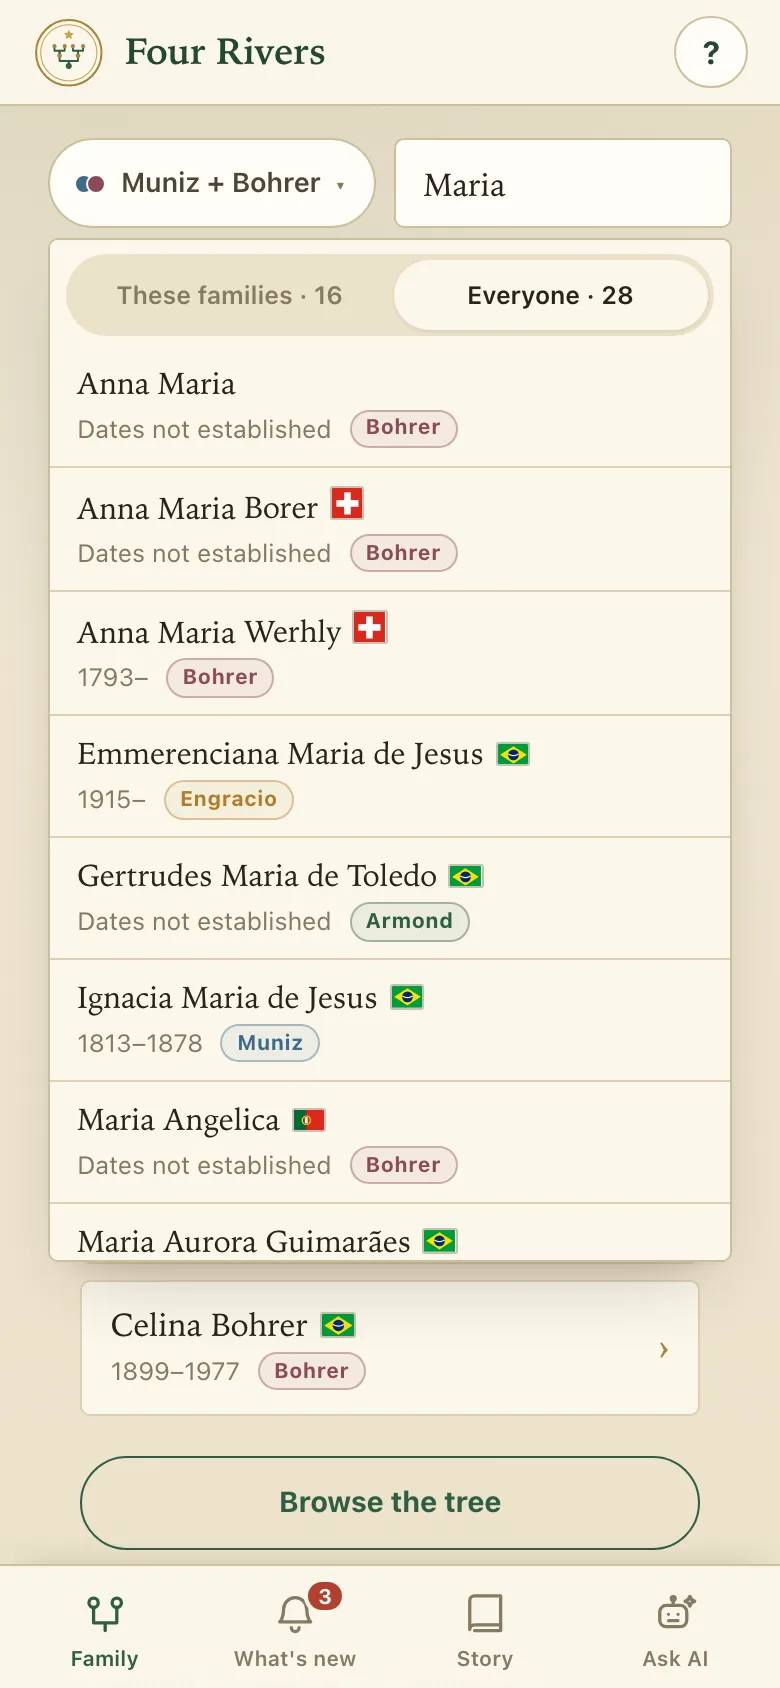
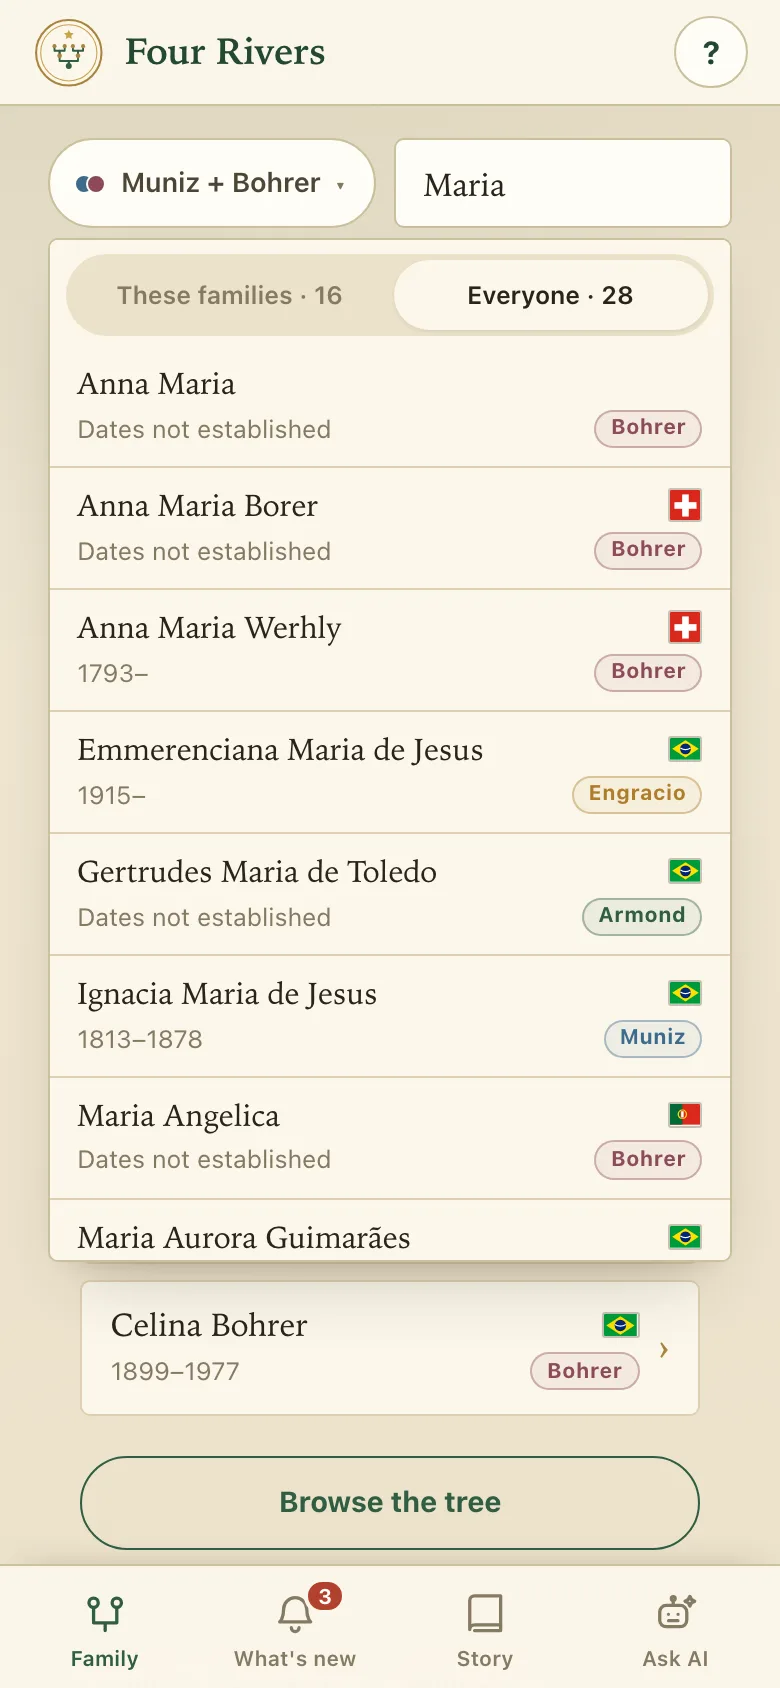
Align flags and family tags on the right of person rows
Person rows keep the name across the full width and line up the flag (name
line) and the family tag (years line) on the right, as two columns down a
list; each line has its own space so long names still fit. The UI standard,
the concept mockup and the screen gallery follow.

diff --git a/design/mockups/branch-picker.html b/design/mockups/branch-picker.html
@@ -203,6 +203,11 @@
   .dp .tier-contextual { background: #ece7f3; color: #5d4f7a; }
   .dp ul.facts { padding-left: 1.05rem; }
   .dp ul.facts li + li { margin-top: .5rem; }
+
+  /* As shipped: the flag and the family tag line up on the right of their rows. */
+  .pname { display: flex; align-items: center; justify-content: space-between; gap: 8px; }
+  .pyears-line { justify-content: space-between; }
+  .pyears-line .tag { margin-left: auto; }
 </style>
 </head>
 <body>
@@ -311,10 +316,10 @@
 
           <div class="section-label" data-en="The four rivers" data-pt="Os quatro rios"></div>
           <div class="couple">
-            <div class="row"><span class="bar" style="--b: var(--b-armond)"></span><span class="grow"><div class="pname">Geraldo Paz <span class="name-tail">Armond <span class="flag-br" role="img" aria-label="Brazilian"></span></span></div><div class="pyears-line"><span class="pyears">1915 – 1991</span><span class="tag" style="--b: var(--b-armond)">Armond</span></div></span><span class="chev">›</span></div>
-            <div class="row"><span class="bar" style="--b: var(--b-engracio)"></span><span class="grow"><div class="pname">Cidalia Engracio <span class="name-tail">Guimarães <span class="flag-br" role="img" aria-label="Brazilian"></span></span></div><div class="pyears-line"><span class="pyears">1930 – 2023</span><span class="tag" style="--b: var(--b-engracio)">Engracio</span></div></span><span class="chev">›</span></div>
-            <div class="row"><span class="bar" style="--b: var(--b-muniz)"></span><span class="grow"><div class="pname">Antenor <span class="name-tail">Muniz <span class="flag-br" role="img" aria-label="Brazilian"></span></span></div><div class="pyears-line"><span class="pyears">1923 – 2014</span><span class="tag" style="--b: var(--b-muniz)">Muniz</span></div></span><span class="chev">›</span></div>
-            <div class="row"><span class="bar" style="--b: var(--b-bohrer)"></span><span class="grow"><div class="pname">Iris Bohrer <span class="name-tail">Muniz <span class="flag-br" role="img" aria-label="Brazilian"></span></span></div><div class="pyears-line"><span class="pyears">1929 – 2021</span><span class="tag" style="--b: var(--b-bohrer)">Bohrer</span></div></span><span class="chev">›</span></div>
+            <div class="row"><span class="bar" style="--b: var(--b-armond)"></span><span class="grow"><div class="pname">Geraldo Paz Armond <span class="flag-br" role="img" aria-label="Brazilian"></span></div><div class="pyears-line"><span class="pyears">1915 – 1991</span><span class="tag" style="--b: var(--b-armond)">Armond</span></div></span><span class="chev">›</span></div>
+            <div class="row"><span class="bar" style="--b: var(--b-engracio)"></span><span class="grow"><div class="pname">Cidalia Engracio Guimarães <span class="flag-br" role="img" aria-label="Brazilian"></span></div><div class="pyears-line"><span class="pyears">1930 – 2023</span><span class="tag" style="--b: var(--b-engracio)">Engracio</span></div></span><span class="chev">›</span></div>
+            <div class="row"><span class="bar" style="--b: var(--b-muniz)"></span><span class="grow"><div class="pname">Antenor Muniz <span class="flag-br" role="img" aria-label="Brazilian"></span></div><div class="pyears-line"><span class="pyears">1923 – 2014</span><span class="tag" style="--b: var(--b-muniz)">Muniz</span></div></span><span class="chev">›</span></div>
+            <div class="row"><span class="bar" style="--b: var(--b-bohrer)"></span><span class="grow"><div class="pname">Iris Bohrer Muniz <span class="flag-br" role="img" aria-label="Brazilian"></span></div><div class="pyears-line"><span class="pyears">1929 – 2021</span><span class="tag" style="--b: var(--b-bohrer)">Bohrer</span></div></span><span class="chev">›</span></div>
           </div>
           <button class="full-tree" data-en="Browse the tree" data-pt="Navegar pela árvore"></button>
 
@@ -337,7 +342,7 @@
         <span class="tab"><svg><use href="#i-ask"/></svg><span data-en="Ask AI" data-pt="Perguntar"></span></span>
       </nav>
     </div>
-    <p class="note"><b>Your home.</b> Each row puts the name across the width with its flag, and the years and family beneath. It starts at the four grandparents, one tap into any river, and <b>Browse the tree</b> opens the person-by-person view. <b>The bar at the bottom</b> holds What’s new, the Story and Ask AI, always one thumb-tap away. The <b>3</b> counts the updates published since you last opened What’s new. Help is the <b>?</b> at the top right; tapping the logo or the title goes back to the family question, which has the EN | PT switch.</p>
+    <p class="note"><b>Your home.</b> Each row puts the name across the width, with the flag and the family tag lined up on the right. It starts at the four grandparents, one tap into any river, and <b>Browse the tree</b> opens the person-by-person view. <b>The bar at the bottom</b> holds What’s new, the Story and Ask AI, always one thumb-tap away. The <b>3</b> counts the updates published since you last opened What’s new. Help is the <b>?</b> at the top right; tapping the logo or the title goes back to the family question, which has the EN | PT switch.</p>
   </figure>
 
   <!-- 3 · HOME, MUNIZ + BOHRER -->
@@ -352,16 +357,16 @@
 
           <div class="section-label" data-en="Where these families meet" data-pt="Onde estas famílias se encontram"></div>
           <div class="couple">
-            <div class="row"><span class="bar" style="--b: var(--b-muniz)"></span><span class="grow"><div class="pname">Antenor <span class="name-tail">Muniz <span class="flag-br" role="img" aria-label="Brazilian"></span></span></div><div class="pyears">1923 – 2014</div></span><span class="chev">›</span></div>
-            <div class="row"><span class="bar" style="--b: var(--b-bohrer)"></span><span class="grow"><div class="pname">Iris Bohrer <span class="name-tail">Muniz <span class="flag-br" role="img" aria-label="Brazilian"></span></span></div><div class="pyears">1929 – 2021</div></span><span class="chev">›</span></div>
+            <div class="row"><span class="bar" style="--b: var(--b-muniz)"></span><span class="grow"><div class="pname">Antenor Muniz <span class="flag-br" role="img" aria-label="Brazilian"></span></div><div class="pyears">1923 – 2014</div></span><span class="chev">›</span></div>
+            <div class="row"><span class="bar" style="--b: var(--b-bohrer)"></span><span class="grow"><div class="pname">Iris Bohrer Muniz <span class="flag-br" role="img" aria-label="Brazilian"></span></div><div class="pyears">1929 – 2021</div></span><span class="chev">›</span></div>
             <div class="married" data-en="Married 7 December 1949" data-pt="Casaram-se em 7 de dezembro de 1949"></div>
           </div>
 
           <div class="section-label" data-en="Their parents" data-pt="Os pais deles"></div>
-          <div class="rel"><span class="grow"><span class="pname">Deocleciano Muniz <span class="name-tail">Bittencourt <span class="flag-br" role="img" aria-label="Brazilian"></span></span></span><span class="pyears-line"><span class="pyears" data-en="born 1892" data-pt="nasceu em 1892"></span><span class="tag" style="--b: var(--b-muniz)">Muniz</span></span></span><span class="chev">›</span></div>
-          <div class="rel"><span class="grow"><span class="pname">Luiza Fernandes de <span class="name-tail">Azevedo <span class="flag-br" role="img" aria-label="Brazilian"></span></span></span><span class="pyears-line"><span class="pyears" data-en="born about 1898" data-pt="nasceu por volta de 1898"></span><span class="tag" style="--b: var(--b-muniz)">Muniz</span></span></span><span class="chev">›</span></div>
-          <div class="rel"><span class="grow"><span class="pname">João Gonçalves <span class="name-tail">Bohrer <span class="flag-br" role="img" aria-label="Brazilian"></span></span></span><span class="pyears-line"><span class="pyears">c.1894 – 1970</span><span class="tag" style="--b: var(--b-bohrer)">Bohrer</span></span></span><span class="chev">›</span></div>
-          <div class="rel"><span class="grow"><span class="pname">Celina <span class="name-tail">Bohrer <span class="flag-br" role="img" aria-label="Brazilian"></span></span></span><span class="pyears-line"><span class="pyears">1899 – 1977</span><span class="tag" style="--b: var(--b-bohrer)">Bohrer</span></span></span><span class="chev">›</span></div>
+          <div class="rel"><span class="grow"><span class="pname">Deocleciano Muniz Bittencourt <span class="flag-br" role="img" aria-label="Brazilian"></span></span><span class="pyears-line"><span class="pyears" data-en="born 1892" data-pt="nasceu em 1892"></span><span class="tag" style="--b: var(--b-muniz)">Muniz</span></span></span><span class="chev">›</span></div>
+          <div class="rel"><span class="grow"><span class="pname">Luiza Fernandes de Azevedo <span class="flag-br" role="img" aria-label="Brazilian"></span></span><span class="pyears-line"><span class="pyears" data-en="born about 1898" data-pt="nasceu por volta de 1898"></span><span class="tag" style="--b: var(--b-muniz)">Muniz</span></span></span><span class="chev">›</span></div>
+          <div class="rel"><span class="grow"><span class="pname">João Gonçalves Bohrer <span class="flag-br" role="img" aria-label="Brazilian"></span></span><span class="pyears-line"><span class="pyears">c.1894 – 1970</span><span class="tag" style="--b: var(--b-bohrer)">Bohrer</span></span></span><span class="chev">›</span></div>
+          <div class="rel"><span class="grow"><span class="pname">Celina Bohrer <span class="flag-br" role="img" aria-label="Brazilian"></span></span><span class="pyears-line"><span class="pyears">1899 – 1977</span><span class="tag" style="--b: var(--b-bohrer)">Bohrer</span></span></span><span class="chev">›</span></div>
 
           <div class="section-label" data-en="Browse by surname" data-pt="Navegar por sobrenome"></div>
           <div class="chips">

diff --git a/family-tree-viewer/app.js b/family-tree-viewer/app.js
@@ -893,12 +893,12 @@ function renderSearchResults(query) {
     item.type = "button";
     item.className = "search-result";
     item.setAttribute("role", "option");
-    const name = document.createElement("span");
-    name.className = "search-result-name";
-    appendNameWithFlag(name, person.name, nationalityFlag(person.nationality));
-    item.append(name);
-    const subline = personSubline(person.privacy === "living" ? "" : lifespan(person), branchTags(person.id));
-    if (subline) item.append(subline);
+    fillPersonRow(item, {
+      name: person.name,
+      flag: nationalityFlag(person.nationality),
+      sub: person.privacy === "living" ? "" : lifespan(person),
+      tags: branchTags(person.id),
+    });
     item.addEventListener("click", () => selectSearchResult(person.id));
     box.append(item);
   }
@@ -3229,41 +3229,47 @@ function closeDetails() {
 const MOBILE_QUERY = window.matchMedia("(max-width: 700px)");
 const isMobile = () => MOBILE_QUERY.matches;
 
-// A name with its flag kept on the same line as the last word, so a long name wraps but the
-// flag never drops onto a line of its own.
-function appendNameWithFlag(container, name, flag) {
-  if (!flag) {
-    container.append(name);
-    return;
+// A person row: the name across the full width; the flag and the family tag lined up on the right
+// (flag beside the name, tag beside the years), so they read as two tidy columns down a list.
+function fillPersonRow(row, { name, flag, sub, tags, chevron }) {
+  row.classList.add("person-grid");
+  // Each line is its own flex row, so the name line gives up only the flag's width.
+  const top = document.createElement("span");
+  top.className = "pg-line";
+  const label = document.createElement("span");
+  label.className = "pg-name";
+  label.textContent = name;
+  top.append(label);
+  if (flag) {
+    flag.classList.add("pg-flag");
+    top.append(flag);
   }
-  const words = String(name).split(" ");
-  const last = words.pop();
-  if (words.length) container.append(`${words.join(" ")} `);
-  const tail = document.createElement("span");
-  tail.className = "name-tail";
-  tail.append(last, " ", flag);
-  container.append(tail);
-}
-
-// The second line of a person row: years, then the family tag, small and muted.
-function personSubline(text, tags) {
-  if (!text && !tags) return null;
-  const line = document.createElement("span");
-  line.className = "person-subline";
-  if (text) {
+  row.append(top);
+  if (sub || tags) {
+    const bottom = document.createElement("span");
+    bottom.className = "pg-line pg-sub-line";
     const years = document.createElement("span");
-    years.className = "person-subline-years";
-    years.textContent = text;
-    line.append(years);
+    years.className = "pg-sub";
+    years.textContent = sub || "";
+    bottom.append(years);
+    if (tags) {
+      tags.classList.add("pg-tags");
+      bottom.append(tags);
+    }
+    row.append(bottom);
   }
-  if (tags) line.append(tags);
-  return line;
+  if (chevron) {
+    const mark = document.createElement("span");
+    mark.className = "mobile-row-chevron pg-chev";
+    mark.setAttribute("aria-hidden", "true");
+    mark.textContent = "›";
+    row.append(mark);
+  }
 }
 
-// One tappable relation row: the name across the full width (flag attached), and beneath it
-// the years and family tag, like a contacts list. Rows for a modelled person we can re-centre
-// on are buttons; documented-only relations (no entity) are inert. options.tags adds the
-// person's branch tags; options.colour draws that branch's colour down the row's edge.
+// One tappable relation row (see fillPersonRow). Rows for a modelled person we can re-centre on
+// are buttons; documented-only relations (no entity) are inert. options.tags adds the person's
+// branch tags; options.colour draws that branch's colour down the row's edge.
 function mobileRelationRow(id, name, meta, options = {}) {
   const target = id && state.data.people[id];
   const row = document.createElement(target ? "button" : "div");
@@ -3273,22 +3279,13 @@ function mobileRelationRow(id, name, meta, options = {}) {
     row.type = "button";
     row.addEventListener("click", () => focusPerson(id));
   }
-  const main = document.createElement("span");
-  main.className = "mobile-row-main";
-  const label = document.createElement("span");
-  label.className = "mobile-row-name";
-  appendNameWithFlag(label, name, target ? nationalityFlag(target.nationality) : null);
-  main.append(label);
-  const subline = personSubline(target ? lifespan(target) : meta, options.tags && target ? branchTags(id) : null);
-  if (subline) main.append(subline);
-  row.append(main);
-  if (target) {
-    const chevron = document.createElement("span");
-    chevron.className = "mobile-row-chevron";
-    chevron.setAttribute("aria-hidden", "true");
-    chevron.textContent = "›";
-    row.append(chevron);
-  }
+  fillPersonRow(row, {
+    name,
+    flag: target ? nationalityFlag(target.nationality) : null,
+    sub: target ? lifespan(target) : meta,
+    tags: options.tags && target ? branchTags(id) : null,
+    chevron: Boolean(target),
+  });
   return row;
 }
 

diff --git a/family-tree-viewer/styles.css b/family-tree-viewer/styles.css
@@ -222,8 +222,6 @@ main {
 }
 .search-result:last-child { border-bottom: 0; }
 .search-result:hover, .search-result:focus-visible { background: var(--card-2); outline: none; }
-.search-result-name { flex: 1 1 auto; min-width: 0; }
-.search-result-meta { color: var(--muted); font-size: .8rem; white-space: nowrap; }
 
 .toolbar label > span:first-child {
   display: block;
@@ -2750,24 +2748,21 @@ button.mobile-row:active { transform: translateY(1px); background: var(--card-2)
   .brand-emblem, .header-help { width: 2.1rem; height: 2.1rem; }
 }
 
-/* ---------- Person rows: name on top, years and family below ---------- */
-.name-tail { white-space: nowrap; }
-.name-tail .person-flag { margin-left: .1rem; }
-.mobile-row-main { display: grid; flex: 1 1 auto; gap: .2rem; min-width: 0; }
-.mobile-row-name { line-height: 1.3; }
-.person-subline {
-  display: flex;
-  flex-wrap: wrap;
+/* ---------- Person rows: name on top; flag and family tag aligned on the right ---------- */
+.person-grid {
+  display: grid;
+  grid-template-columns: minmax(0, 1fr) auto;
   align-items: center;
-  gap: .3rem .55rem;
-  color: var(--muted);
-  font-family: var(--sans);
-  font-size: .78rem;
-  line-height: 1.4;
+  column-gap: .6rem;
+  row-gap: .2rem;
 }
-.person-subline .branch-tags { flex: 0 0 auto; }
-.search-result { flex-direction: column; align-items: stretch; gap: .2rem; }
-.search-result .search-result-name { line-height: 1.3; }
+.person-grid .pg-line { grid-column: 1; display: flex; align-items: center; gap: .6rem; min-width: 0; }
+.person-grid .pg-name { flex: 1 1 auto; min-width: 0; line-height: 1.3; }
+.person-grid .pg-flag { flex: none; margin-left: auto; }
+.person-grid .pg-sub { flex: 1 1 auto; color: var(--muted); font-family: var(--sans); font-size: .78rem; line-height: 1.4; }
+.person-grid .pg-tags { flex: none; margin-left: auto; justify-content: flex-end; }
+.person-grid .pg-chev { grid-column: 2; grid-row: 1 / span 2; }
+.search-result.person-grid { grid-template-columns: minmax(0, 1fr); }
 @media (max-width: 700px) {
   .site-header h1 .title-button { display: block; max-width: 100%; overflow: hidden; text-overflow: ellipsis; white-space: nowrap; }
 }

diff --git a/design/mockups/mobile.html b/design/mockups/mobile.html
@@ -55,7 +55,7 @@
     <a class="shot" href="screens/mobile/03-home-everything.webp"><img src="screens/mobile/03-home-everything.webp" alt="Home — Everything" loading="lazy"></a>
   </figure>
   <figure id="04-home-chosen-families">
-    <figcaption><b><span>06</span>Home — Muniz + Bohrer</b><p>The full title always fits now that the chip sits beside search. Where the families meet and their parents; each row shows the name with its flag, and the years and family beneath.</p></figcaption>
+    <figcaption><b><span>06</span>Home — Muniz + Bohrer</b><p>The full title always fits now that the chip sits beside search. Where the families meet and their parents; in each row the flag and the family tag line up on the right, beside the chevron.</p></figcaption>
     <a class="shot" href="screens/mobile/04-home-chosen-families.webp"><img src="screens/mobile/04-home-chosen-families.webp" alt="Home — Muniz + Bohrer" loading="lazy"></a>
   </figure>
   <figure id="05-home-surnames">

diff --git a/design/UI-STANDARDS.md b/design/UI-STANDARDS.md
@@ -58,9 +58,11 @@ These rules govern every change to the viewer (`family-tree-viewer/`) and its re
 
 - **Container card:** `background: var(--card); border: 1px solid var(--rule); border-radius:
   var(--radius-lg); box-shadow: var(--shadow-sm)`.
-- **Person row** (`mobileRelationRow`, search results): two lines — the name across the full width
-  with the flag kept beside the last word (`appendNameWithFlag`); beneath, years and family tag,
-  small and muted (`personSubline`); a chevron when tappable. Never "…" on a name.
+- **Person row** (`mobileRelationRow`, search results — built by `fillPersonRow`): two lines — the
+  name across the full width with the **flag aligned right** on its line; beneath, the years (small,
+  muted) with the **family tag aligned right**; a chevron when tappable. Flags and tags so form two
+  tidy columns down a list. Never "…" on a name. Headers (the person page title, the person-view
+  card) keep the tag beside the dates, and What's new keeps its tags in the entry's meta line.
 - **Family tag** `branchTagsFor()`; **evidence badge** `createBadge()` — never mix them.
 - **"These families · N / Everything · M"** — `scopeSwitch()`, for any list that can be scoped.
 - **Buttons:** primary green full-width pill (`.branch-cta`); secondary outlined pill

diff --git a/CHANGELOG.md b/CHANGELOG.md
@@ -5,6 +5,14 @@ also remain traceable through source records and research logs.
 
 ## Unreleased
 
+### Changed — flags and family tags aligned on the right (2026-10-09)
+
+- Person rows (phone lists and search results) keep the name across the full width and line up the
+  flag (on the name line) and the family tag (on the years line) on the right, so they read as two
+  columns down a list; each line has its own space, so long names still fit on one line.
+  `design/UI-STANDARDS.md` records the new rule (owner-approved); headers and What's new keep their
+  tags beside the dates or in the entry's meta line.
+
 ### Added — UI & layout standards (2026-10-09)
 
 - `design/UI-STANDARDS.md` records the viewer's rules — the phone frame, the desktop layout, theme
